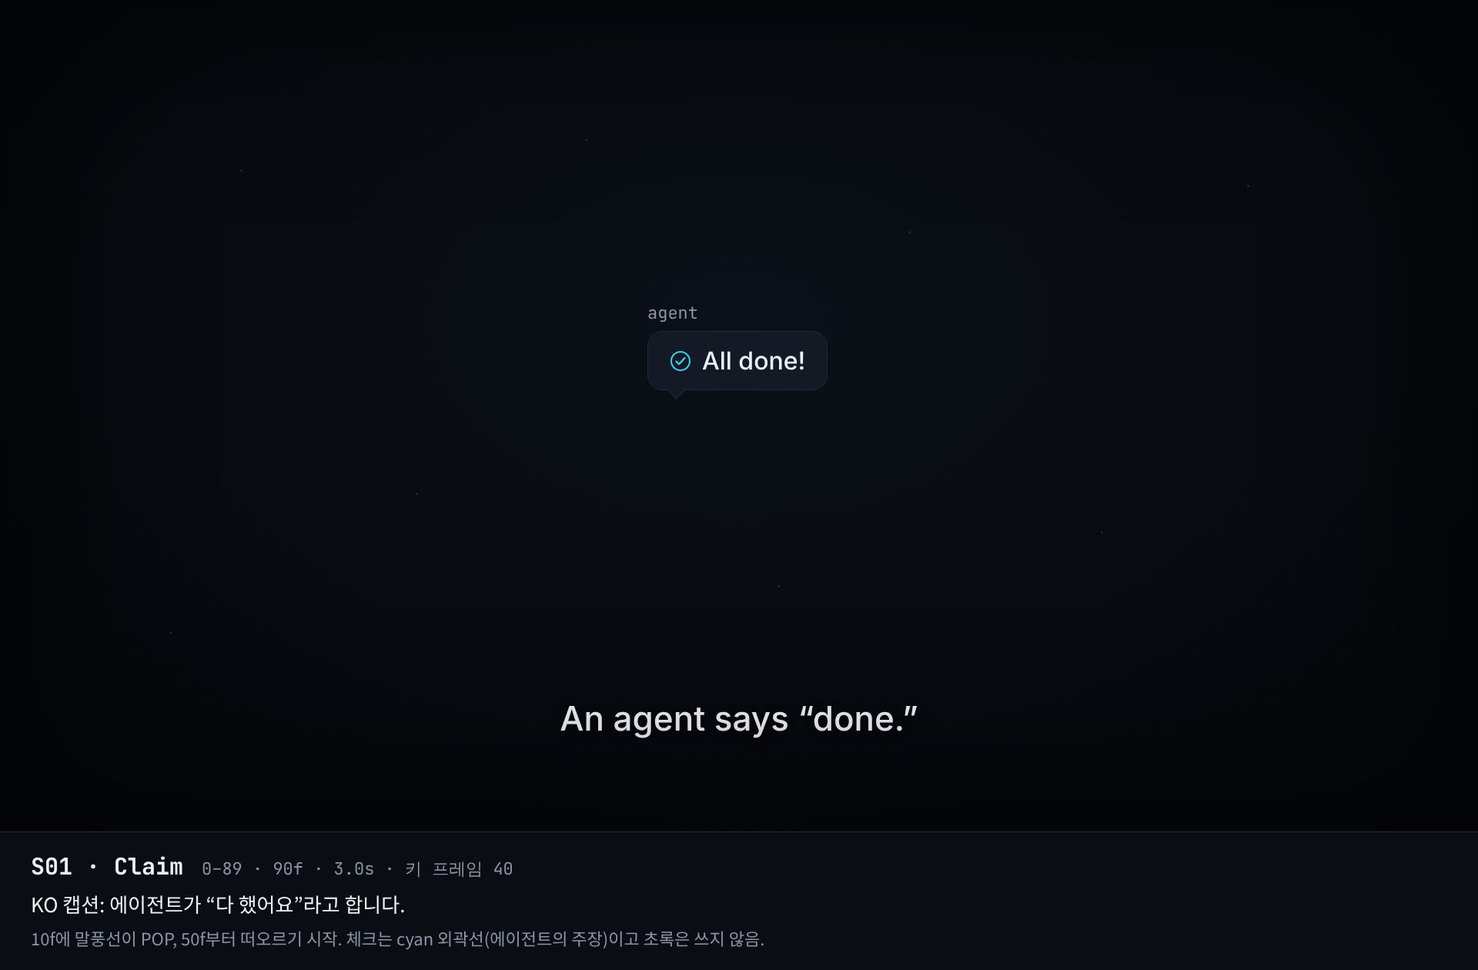
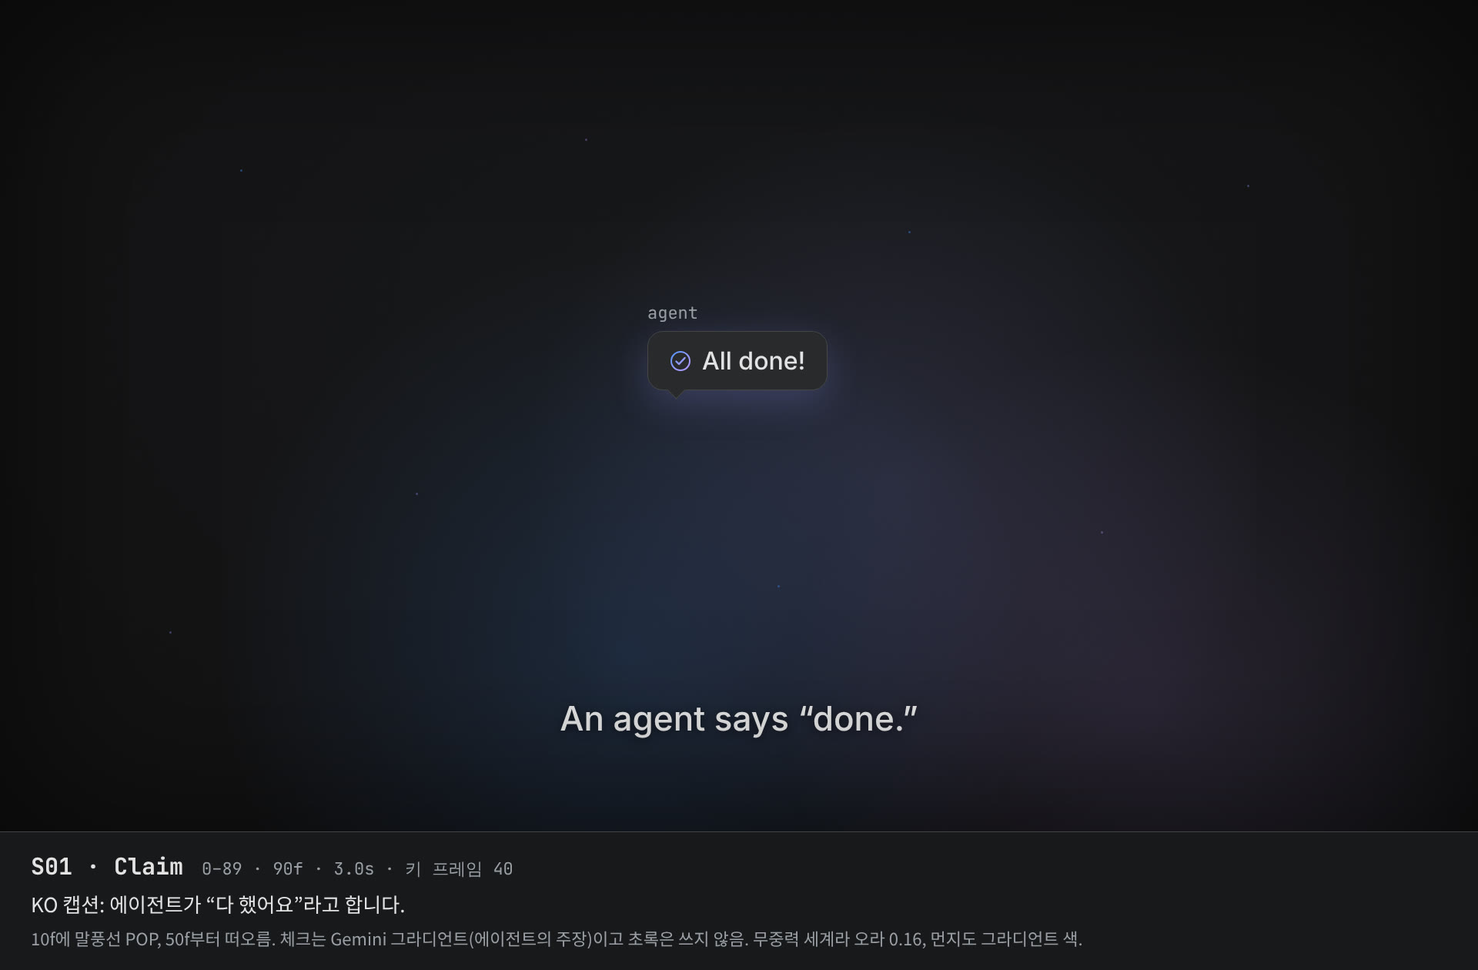
docs(promo): switch motion graphic palette to the Gemini color family
Owner decision: dark Gemini-style surfaces, a blue-lavender-lilac
gradient for agent activity and brand moments ("lift"), and Google
state colors (green GO, red NO-GO). STALE moves from magenta to yellow
so it stays distinct from the gradient's purples.

- DESIGN.md: new tokens with contrast table, color law (gradient only
  for agents/brand, green only for verified), SHIMMER primitive, aura,
  guardrail now allows the palette but still bans logos and sparkle marks
- plan.json: color-law pixel check uses the new green
- frames/: re-rendered styleframes

The gradient hex values come from a third-party palette, not an
official Google guide; they are isolated in three tokens.

Claude-Session: https://claude.ai/code/session_01JPnpxESaoSL5fmmJfBV7GP

Changed region(s): [[0.25, 0.3095, 0.9062, 0.8357], [0.0938, 0.9595, 0.7188, 0.9905]]

diff --git a/promo/motion-graphic/DESIGN.md b/promo/motion-graphic/DESIGN.md
@@ -17,6 +17,7 @@
 | 핵심 메시지 | 에이전트가 "끝났다"고 해도 완료가 아니다. 독립 검수의 GO만 완료다 |
 | 컨셉 | **주장은 떠다니고, 검증된 작업만 착지한다** (Claims float. Verified work lands.) |
 | 마지막 태그라인 | “Done” is a verdict, not a claim. / “완료”는 주장이 아니라 판정입니다. |
+| 팔레트 | Gemini 계열(오너 결정). 다크 표면 `#131314`, 블루→라벤더→라일락 그라디언트는 에이전트와 브랜드에, 초록은 검증에만 (§5.1) |
 | 렌더 엔진 | Remotion(React, TypeScript). 프레임 단위 결정적 렌더링 |
 | 작업 위치 | 플러그인 체크아웃 바깥의 별도 저장소 `native-gravity-promo/` (§11.2) |
 
@@ -69,8 +70,9 @@ NO-GO와 GO의 차이가 보여야 합니다.
 - `npm install native-gravity`. 1.1.0은 npm에 없습니다. 설치는 저장소에서 합니다.
 - 전역 `ntg-vnext` 명령처럼 보이는 표기. 화면 명령은 `node "$NTG/scripts/ntg-vnext.mjs" …` 형태만 씁니다.
 - 모델 이름(Gemini, Argon, Flash, Claude 등)과 내부 역할 이름. 라우팅은 바뀔 수 있고 사용자 기능이 아닙니다.
-- Google, Antigravity, Gemini의 로고, 아이콘, 브랜드 색 배열. 공식 제휴처럼 보이는 표현.
-  "for Google Antigravity" 같은 호환성 텍스트 표기만 허용합니다.
+- Google, Antigravity, Gemini의 로고와 아이콘, Gemini 스파클(네 갈래 별) 모양, Google 로고처럼 네 색을
+  한자리에 나란히 놓은 배열, 공식 제휴처럼 보이는 표현. 팔레트는 오너 결정으로 Gemini 계열 색을 쓰지만(§5.1)
+  색만 빌리고 마크나 모양은 빌리지 않습니다. 텍스트는 "for Google Antigravity" 같은 호환성 표기만 허용합니다.
 - 실제 녹화 실행처럼 보이게 하는 것. 예시 플랜은 `docs/usage.md`를 바탕으로 한 설명용입니다.
   S04부터 S10까지 화면 오른쪽 위에 `Illustrative example` / `예시 시나리오` 라벨을 둡니다.
 - 이모지 글리프. 헤드리스 Chromium에서 두부(□)로 깨질 수 있습니다. 아이콘은 모두 SVG로 그립니다.
@@ -93,6 +95,10 @@ NO-GO와 GO의 차이가 보여야 합니다.
 이야기는 무중력 세계에서 시작합니다. 에이전트의 "done" 말풍선이 떠올라 흘러갑니다. 타이틀에서 세계에
 중력이 생기고, 그 뒤로는 검증을 통과한 것만 바닥에 내려앉습니다. Antigravity를 깎아내리지 않습니다.
 S03 태그라인 "Agents get lift. Verified work gets gravity."처럼 둘을 보완 관계로 그립니다.
+
+색도 같은 이야기를 합니다. Gemini 그라디언트는 **날개(lift)**, 즉 에이전트의 실행과 주장, 그리고 브랜드
+순간에만 씁니다. 초록은 **중력**, 즉 독립 검수를 통과해 착지한 것에만 씁니다. 화면에서 반짝이는 것과
+단단히 놓인 것이 색으로 갈립니다.
 
 ### 3.1 모션 불변식
 
@@ -120,39 +126,57 @@ S03 태그라인 "Agents get lift. Verified work gets gravity."처럼 둘을 보
 
 ## 5. 비주얼 시스템
 
-### 5.1 색 토큰
+### 5.1 색 토큰 (Gemini 계열)
 
-`src/tokens.ts`에 아래 이름 그대로 둡니다. 상태 색은 실제 DAG 뷰어(`scripts/dag-view.mjs`)의 상태
-의미를 따릅니다. ACTIVE는 cyan, DONE은 green, NO-GO는 red, BLOCKED는 yellow, STALE은 magenta입니다.
+오너 결정(2026-10-19)으로 팔레트를 Gemini 계열로 바꿨습니다. `src/tokens.ts`에 아래 이름 그대로 둡니다.
 
-| 토큰 | HEX | 쓰임 | bg0 대비 |
-|---|---|---|---|
-| `bg0` | `#06080C` | 우주 배경 | |
-| `bg1` | `#0D1119` | 패널, 블록 바탕 | |
-| `bg2` | `#141A25` | 말풍선, 리뷰 카드 | |
-| `line` | `#232B3A` | 패널 테두리 | |
-| `ground` | `#2B3547` | ledger 레일 기본선 | |
-| `textHi` | `#EDF1F7` | 본문, 캡션 | 17.68 |
-| `textLo` | `#8C95A6` | 보조 텍스트, 먼지 | 6.65 |
-| `active` | `#38D3F2` | 실행 중, 에이전트 활동과 주장 | 11.23 |
-| `done` | `#39D98A` | GO, DONE, 착지한 레일 | 10.94 |
-| `nogo` | `#FF5C5C` | NO-GO | 6.62 |
-| `stale` | `#C77DFF` | STALE | 7.45 |
-| `blocked` | `#FFC542` | 예약. 이 영상에서는 쓰지 않음 | 12.71 |
-| `pending` | `#4B5568` | PENDING 블록 **테두리 전용** | 2.67 |
-| `reviewer` | `#F4F7FB` | 독립 리뷰 빔, 카드 머리글 | 18.65 |
+- **표면:** Gemini 다크 UI 계열의 중성 회색입니다.
+- **Gemini 그라디언트:** 블루 → 라벤더 → 라일락 세 색입니다. UNKNOWN: 이 값은 서드파티 팔레트 사이트
+  (brandpalettes.com)의 "Gemini Gradient" 값이고, Google 공식 가이드에서 확인한 값이 아닙니다.
+  공식 값을 확인하면 `gBlue`, `gLavender`, `gLilac` 세 토큰만 바꾸면 됩니다.
+- **상태색:** Google 기본색에서 가져옵니다. 실행 중은 그라디언트 블루, DONE은 Google green,
+  NO-GO는 Google red입니다. STALE은 DAG 뷰어의 magenta 대신 Google yellow를 씁니다. 보라 계열은
+  그라디언트의 라벤더, 라일락과 섞여 구별되지 않기 때문입니다. 이 영상에는 BLOCKED(DAG 뷰어에서 yellow)가
+  나오지 않으므로 겹치지 않습니다.
 
-모든 텍스트 색은 bg0, bg1 위에서 4.5:1 이상입니다. `pending`은 대비가 낮아 텍스트에 쓰지 않습니다.
-PENDING 태그 글자는 `textLo`로 씁니다.
+| 토큰 | HEX | 쓰임 | bg0 대비 | bg1 대비 |
+|---|---|---|---|---|
+| `bg0` | `#131314` | 배경 | | |
+| `bg1` | `#1E1F20` | 패널, 블록 바탕 | | |
+| `bg2` | `#282A2C` | 말풍선, 리뷰 카드 | | |
+| `line` | `#444746` | 패널 테두리 | | |
+| `ground` | `#3C4043` | ledger 레일 기본선 | | |
+| `textHi` | `#E3E3E3` | 본문, 캡션 | 14.47 | 12.86 |
+| `textLo` | `#9AA0A6` | 보조 텍스트, 먼지 | 7.03 | 6.25 |
+| `gBlue` | `#4893FC` | 그라디언트 시작. ACTIVE 태그 글자 | 6.06 | 5.39 |
+| `gLavender` | `#969DFF` | 그라디언트 가운데 | 7.57 | 6.73 |
+| `gLilac` | `#BD99FE` | 그라디언트 끝 | 8.09 | 7.19 |
+| `done` | `#34A853` | GO, DONE, 착지한 레일 | 6.08 | 5.40 |
+| `nogo` | `#EA4335` | NO-GO. 굵은 22px 이상 글자에만 | 4.73 | 4.21 |
+| `stale` | `#FBBC04` | STALE | 10.87 | 9.67 |
+| `blocked` | `#FA903E` | 예약. 이 영상에서는 쓰지 않음 | 8.07 | 7.17 |
+| `pending` | `#5F6368` | PENDING 블록 **테두리 전용** | 3.07 | 2.73 |
+| `reviewer` | `#F1F3F4` | 독립 리뷰 빔, 카드 머리글 | 16.68 | 14.83 |
+
+그라디언트 `gemini`는 두 가지 형태로 씁니다.
+
+- 선형: `linear-gradient(90deg, gBlue 0%, gLavender 55%, gLilac 100%)`
+- 테두리용 원뿔형: `conic-gradient(from θ, gBlue, gLavender, gLilac, gLavender, gBlue)`
+
+본문 텍스트는 bg0, bg1 위에서 4.5:1 이상입니다. `nogo`는 bg1에서 4.21이라 굵은 22px 이상 글자에만
+씁니다(WCAG 큰 글자 기준 3:1). 상태색 글자는 모두 태그, 알약, 캡션 강조처럼 굵은 큰 글자입니다.
+`pending`은 테두리 전용이고 PENDING 태그 글자는 `textLo`로 씁니다.
 
 ### 5.2 색의 법칙 (어기면 안 됨)
 
 1. **초록은 검증만 뜻합니다.** `done`은 독립 리뷰 카드 안의 통과 체크, GO 판정, 착지한 블록과 레일에만
    씁니다. 에이전트의 "done" 주장, 진행률, 장식에는 절대 쓰지 않습니다.
-2. 에이전트의 주장과 실행은 `active` cyan입니다. 말풍선 체크 아이콘도 cyan 외곽선입니다.
-3. 빨강은 NO-GO 전용, 마젠타는 STALE 전용입니다.
-4. 독립 리뷰는 `reviewer` 흰색입니다. 에이전트와 색을 공유하지 않는 것이 "독립"의 시각 표현입니다.
-5. 네 상태색을 로고처럼 나란히 배열하지 않습니다(§2.2).
+2. **Gemini 그라디언트는 날개(lift)입니다.** 에이전트의 실행과 주장(ACTIVE 테두리, 주장 칩, 말풍선 체크,
+   작업 입자)과 브랜드 순간(S03 타이틀 레일, 배경 오라, c03c의 `lift`)에만 씁니다. 착지한 블록,
+   ledger 레일 구간, 리뷰 카드, 판정 알약에는 절대 쓰지 않습니다.
+3. 빨강은 NO-GO 전용, 노랑은 STALE 전용입니다.
+4. 독립 리뷰는 `reviewer` 흰색입니다. 에이전트의 Gemini 색을 쓰지 않는 것이 "독립"의 시각 표현입니다.
+5. Google 네 색을 로고처럼 한자리에 나란히 놓지 않고, Gemini 스파클 모양을 쓰지 않습니다(§2.2).
 
 ### 5.3 타이포그래피
 
@@ -171,7 +195,8 @@ PENDING 태그 글자는 `textLo`로 씁니다.
 - 캡션은 가운데 정렬, 최대 폭 1400px, 최대 두 줄입니다. 바탕 상자 없이
   `text-shadow: 0 2px 12px rgba(0,0,0,.6)`만 씁니다.
 - 캡션 강조 토큰은 정확히 일치할 때만 적용합니다. `GO`는 모노 + `done`, `NO-GO`는 모노 + `nogo`,
-  `ledger`는 모노 + `textHi`입니다. 그 밖의 강조는 없습니다.
+  `ledger`는 모노 + `textHi`, c03c의 `lift`와 `날개`는 Gemini 선형 그라디언트 글자입니다.
+  그 밖의 강조는 없습니다.
 - KO 버전도 터미널, plan.json, 블록 제목, 검수 기준, ref는 영어 그대로 둡니다. 실제 파일 내용이기 때문입니다.
   말풍선, 캡션, 리뷰 카드 머리글, 예시 라벨만 현지화합니다(§8).
 
@@ -205,14 +230,15 @@ PENDING 태그 글자는 `textLo`로 씁니다.
 |---|---|---|---|
 | PENDING | `pending` | `textLo` | 없음 |
 | READY | `textHi` 60% | `textHi` | 없음 |
-| ACTIVE | `active` | `active` | 바깥 글로우 0 0 24px, 불투명도 0.45↔0.8, 주기 30f |
+| ACTIVE | Gemini 원뿔형 그라디언트, SHIMMER로 회전 | `gBlue` | 바깥 글로우 0 0 28px(`gBlue` 35%, `gLavender` 25%), 불투명도 0.45↔0.8, 주기 30f |
 | NO-GO | `nogo` | `nogo` | 없음 |
 | DONE | `done` | `done` | 레일 구간 초록 발광 |
 | STALE | `stale` 점선(10/6) | `stale` | `was GO@v1` 노트 |
 
 **후보 태그(candidate tab).** 블록 아래 10px에 두 줄로 매달린 260×44 꼬리표입니다.
 `ref-sha256-3f9a1c…` 같은 ref를 모노 22px로 씁니다. 태그 아래 10px에는 에이전트 주장 칩이 매달립니다.
-주장 칩은 cyan 체크 외곽선 아이콘에 `agent: done`(모노 22px)입니다. 착지가 시작되면 태그와 칩은 블록 본문의
+주장 칩은 1px Gemini 그라디언트 테두리, Gemini 그라디언트 선으로 그린 체크 외곽선 아이콘,
+`agent: done`(모노 22px, `textHi`)입니다. 착지가 시작되면 태그와 칩은 블록 본문의
 한 줄(`ref-sha256-9b2e47…`)로 접혀 들어가 기록으로 남습니다. NO-GO 판정이 나면 블록이 움직이기 전에 먼저
 찢어져 먼지가 되어 위로 흩어집니다. 매달린 태그가 블록보다 먼저 레일에 닿는 일은 없어야 합니다.
 
@@ -225,6 +251,8 @@ PENDING 태그 글자는 `textLo`로 씁니다.
 
 **ledger 레일.** 2px `ground` 선과 은은한 글로우(0 0 12px, `textLo` 25%)입니다. 착지한 블록 아래로
 폭 360px 구간이 `done`으로 빛납니다(2px, 글로우 16px 50%). S08부터 왼쪽 끝 아래에 `ledger` 라벨이 붙습니다.
+S03의 타이틀 레일은 Gemini 선형 그라디언트로 그려지고, S04에서 y=800으로 내려가는 24f 동안 `ground`로
+바뀌며 ledger 레일이 됩니다.
 
 **리뷰 카드와 빔.** 카드는 `bg2` 바탕, 테두리 `reviewer` 35%, 모서리 16px입니다. 머리글은 렌즈 아이콘과
 `Independent review`(Inter SemiBold 26px, `reviewer`)입니다. 행은 체크박스 28px와 기준 문장(Inter 24px)이고,
@@ -237,20 +265,26 @@ PENDING 태그 글자는 `textLo`로 씁니다.
 NO-GO는 같은 방식으로 `nogo`입니다. 빠른 재검증용 미니 알약은 88×36, 모노 22px이며 블록 위 12px에 뜹니다.
 
 **말풍선(S01–S02).** `bg2` 바탕, `line` 테두리, 모서리 20px, 안쪽 여백 20/28px, 왼쪽 아래 꼬리입니다.
-cyan 체크 외곽선 아이콘(28px)과 문구(Inter Medium 32px)를 넣고, 위에 `agent` 라벨(모노 22px, `textLo`)을 둡니다.
+Gemini 그라디언트 선의 체크 외곽선 아이콘(28px)과 문구(Inter Medium 32px)를 넣고, 위에 `agent`
+라벨(모노 22px, `textLo`)을 둡니다. 말풍선 아래로 Gemini 그라디언트의 옅은 글로우(0 16px 48px, 불투명도 0.22)가 깔립니다.
 
 **워드마크.** 왼쪽에 72×72 둥근 사각형(모서리 14px, 4px `done` 테두리)이 120px 받침선 위에 놓인 마크,
 오른쪽에 `Native Gravity`(Space Grotesk Bold 120px)입니다. 마크와 글자 사이는 28px이고, 마크 왼쪽 끝부터
 글자 오른쪽 끝까지를 한 그룹으로 보고 가로 가운데에 둡니다(1080p에서 그룹 폭은 약 880px로 측정됨).
-마크는 "착지한 블록"이므로 초록을 쓸 수 있습니다.
+마크는 "착지한 블록"이므로 초록을 쓸 수 있습니다. 글자는 `textHi` 단색입니다. Gemini의 그라디언트 인사말
+글자와 헷갈리지 않도록 워드마크에는 그라디언트를 넣지 않습니다.
 
 **커맨드 바.** `bg1` 바탕, `line` 테두리, 모서리 12px, 모노 24px입니다. 프롬프트 `$`는 `textLo`,
 커서는 12×26 `textHi` 블록입니다.
 
-**배경.** `bg0`에 중심 (960, 420)에서 `#0B1018`로 밝아지는 방사형 그라디언트, 32px 간격 1.5px 점 격자
-(`textLo` 5%), 가장자리 비네트입니다. 먼지 입자 48개(1.5–3px, 불투명도 0.08–0.22, `textLo`)는
-S03 10f 전까지 위로(−0.3~−0.9 px/f), 그 뒤로 아래로(+0.2~+0.6 px/f) 움직입니다. 방향 전환은 20f 동안
-부드럽게 하며, 화면 밖으로 나가면 반대편에서 다시 나옵니다. 세계에 중력이 생겼다는 것을 배경이 먼저 알립니다.
+**배경.** `bg0`에 중심 (960, 420)에서 `#18191B`로 살짝 밝아지는 방사형 그라디언트, 32px 간격 1.5px 점
+격자(`textLo` 4%), 가장자리 비네트입니다. 그 위에 **Gemini 오라**를 깝니다. `gBlue`, `gLavender`, `gLilac`
+원형 빛 세 개(지름 900–1200px, 블러 160px)이고, 세기는 장면마다 다릅니다. S01–S03은 0.16(무중력, 에이전트의
+세계), S04–S09는 0.05(중력의 세계는 차분하게), S10 엔드 카드 뒤는 0.14입니다. 세기는 장면 경계에서 20f 동안
+바뀝니다. 먼지 입자 48개(1.5–3px)는 S03 10f 전까지 위로(−0.3~−0.9 px/f), 그 뒤로 아래로(+0.2~+0.6 px/f)
+움직입니다. 위로 뜰 때는 그라디언트 세 색(불투명도 0.10–0.25)이고, 방향이 바뀌는 20f 동안 `textLo`
+(불투명도 0.08–0.22)로 바뀝니다. 화면 밖으로 나가면 반대편에서 다시 나옵니다. 세계에 중력이 생겼다는 것을
+배경이 먼저 알립니다.
 
 **레이어 순서(아래→위).** 배경 → 먼지 → 레일 → 그림자 → 블록과 태그 → 빔 → 카드, HUD, 커맨드 바 →
 캡션 → 엔드 카드.
@@ -270,6 +304,7 @@ S03 10f 전까지 위로(−0.3~−0.9 px/f), 그 뒤로 아래로(+0.2~+0.6 px/
 | **SCAN** | 30f (미니 10f) | 빔 x가 블록 왼쪽 −10에서 오른쪽 +10까지 `easeInOutSine`. n개 기준 중 i번째 행은 t = 30·(i+1)/(n+1)에 체크됨. 체크는 스케일 0.6→1 스프링 8f |
 | **STAMP** | 10f | 판정 알약이 스케일 1.3→1, 불투명도 0→1, `spring({damping: 12})` |
 | **STALE LIFT** | 14f | y −16px `easeOutCubic`, 테두리는 점선 `stale`, 태그는 STALE, 노트가 나타남. 레일 초록이 10f 동안 빠짐. 블록 사이 3f 엇갈림(의존성 순서) |
+| **SHIMMER** | 반복 | ACTIVE 테두리 원뿔형 그라디언트의 시작 각 θ = 360°·t/60(2초에 한 바퀴). 주장 칩과 말풍선 체크는 돌리지 않음 |
 | **POP** | 12f | 스케일 0.85→1 `spring({damping: 14, stiffness: 200})`, 불투명도 0→1 6f |
 | **TYPE-ON** | 가변 | 프레임당 3글자. 커서는 30f 주기(15f 켜짐, 15f 꺼짐) |
 | **LINE REVEAL** | 줄당 3f | 줄마다 6px 올라오며 불투명도 0→1, 4f |
@@ -307,7 +342,7 @@ S03 10f 전까지 위로(−0.3~−0.9 px/f), 그 뒤로 아래로(+0.2~+0.6 px/
 ### S01 Claim (90f)
 
 - 0–12: 검은 화면에서 배경이 들어오고 먼지가 천천히 떠오릅니다.
-- 10–22: 말풍선 A `All done!`이 (960, 470)에 POP. cyan 체크 외곽선, 위에 `agent` 라벨.
+- 10–22: 말풍선 A `All done!`이 (960, 470)에 POP. Gemini 그라디언트 체크 외곽선, 위에 `agent` 라벨.
 - 50–89: A가 FLOAT하면서 떠오르기 시작합니다. 상승 속도가 0에서 1.2px/f로 늘고 3°까지 기웁니다.
 - 캡션 c01 [24–89].
 
@@ -324,7 +359,7 @@ S03 10f 전까지 위로(−0.3~−0.9 px/f), 그 뒤로 아래로(+0.2~+0.6 px/
 
 - 0–24: 말풍선들이 12f 안에 멈춘 뒤 아래로 끌려가고(`easeInQuad`), y=640에 닿기 전에 30f까지 먼지로 흩어집니다.
   **주장은 끝내 착지하지 못합니다.**
-- 8–36: y=640 레일이 가운데에서 양옆으로 그려집니다(폭 0→1600, `easeOutCubic`).
+- 8–36: y=640 레일이 Gemini 선형 그라디언트로 가운데에서 양옆으로 그려집니다(폭 0→1600, `easeOutCubic`).
 - 10–30: 먼지 방향이 위에서 아래로 바뀝니다.
 - 30–60: 워드마크가 y −160에서 떨어져 레일 위에 LAND합니다(충돌 48f).
 - 52: 부제 c03b가 y=700(Inter 32px, `textLo`)에. 60: 태그라인 c03c가 y=790(캡션 스타일)에.
@@ -333,7 +368,7 @@ S03 10f 전까지 위로(−0.3~−0.9 px/f), 그 뒤로 아래로(+0.2~+0.6 px/
 ### S04 Plan (150f)
 
 - 0–20: 워드마크, 부제, 태그라인이 20px 올라가며 사라지고, 레일이 y=640에서 800으로 24f 동안 내려갑니다
-  (`easeInOutCubic`).
+  (`easeInOutCubic`). 그동안 레일 색이 그라디언트에서 `ground`로, 오라가 0.16에서 0.05로 바뀝니다.
 - 12–24: plan 패널(x 560–1360, y 100–460, 커맨드 바 스타일)이 POP.
 - 20–56: §10.1의 plan.json 11줄이 LINE REVEAL.
 - 20: 오른쪽 위 예시 라벨이 페이드 인합니다. S10 카메라 틸트 전까지 남습니다.
@@ -346,7 +381,7 @@ S03 10f 전까지 위로(−0.3~−0.9 px/f), 그 뒤로 아래로(+0.2~+0.6 px/
 - 0–24: plan 패널이 크기 0.18로 줄며 왼쪽 위로 날아가 HUD 칩 `plan v1`이 됩니다. 이 칩은 끝까지 남습니다.
 - 16–42: 커맨드 바가 위에서 내려오고 §10.2의 run 명령을 TYPE-ON합니다.
 - 40: m1이 ACTIVE가 됩니다.
-- 44–100: cyan 입자가 m1로 모이고 블록 본문이 은은하게 일렁입니다.
+- 44–100: Gemini 그라디언트 세 색의 입자가 m1로 모이고, 테두리가 SHIMMER로 돌며 본문이 은은하게 일렁입니다.
 - 100–112: 후보 태그 `ref-sha256-3f9a1c…`가 스프링으로 흔들리며 내려옵니다. 108f에 `agent: done` 주장 칩이 POP.
 - 112–149: 그대로 떠 있습니다. 착지하지 않았다는 것이 이 장면의 요점입니다.
 - 캡션 c05 [48–149].
@@ -368,7 +403,7 @@ S03 10f 전까지 위로(−0.3~−0.9 px/f), 그 뒤로 아래로(+0.2~+0.6 px/
 ### S07 Repair · GO · Land (150f)
 
 - 0–12: 카드의 체크와 판정이 8f 동안 사라지며 초기화됩니다.
-- 6–30: m1이 다시 ACTIVE가 되고 cyan 수리 입자가 모입니다.
+- 6–30: m1이 다시 ACTIVE가 되고 그라디언트 수리 입자가 모입니다.
 - 26–36: 새 후보 태그 `ref-sha256-9b2e47…`와 `agent: done` 칩이 붙습니다.
 - 30–38: 연결선이 다시 그려집니다.
 - 38–67: SCAN. 48f와 58f에 ✓ 두 개.
@@ -407,7 +442,7 @@ S03 10f 전까지 위로(−0.3~−0.9 px/f), 그 뒤로 아래로(+0.2~+0.6 px/
 - 0–47: m3 빠른 진행. ACTIVE 0, 후보 태그 `ref-sha256-e7a5b2…` 6, 미니 SCAN 12–21, 미니 GO 22, 빠른 LAND 28–47.
   레일 세 구간이 모두 초록입니다.
 - 48–72: 카메라 틸트. 무대가 아래로 260px 이동하며 불투명도 25%로 어두워지고, 초록 레일은 지평선처럼 남습니다.
-  예시 라벨과 HUD도 함께 어두워집니다.
+  예시 라벨과 HUD도 함께 어두워지고, Gemini 오라가 0.05에서 0.14로 밝아집니다.
 - 56–86: 워드마크가 y=520 받침선에 LAND(충돌 74f).
 - 76: 태그라인 c10a가 y=640에(Space Grotesk 64px). 84: URL c10b가 y=740에(모노 32px, `textHi`).
   92: 배지 c10c가 y=800에(Inter 24px, `textLo`).
@@ -635,7 +670,8 @@ type StoryEvent =
 5. **카피:** 쓰이는 모든 키에 EN, KO 문자열이 있고, 모든 캡션 창이 §8.3 규칙을 통과합니다.
 6. **모션 프리미티브:** LAND 충돌 프레임에서 블록 아래변이 레일 y와 같고 scaleY가 0.90입니다. FLOAT 진폭은
    8px을 넘지 않습니다. REPEL은 레일 위 48px보다 아래로 내려가지 않습니다. SCAN 체크 프레임이 §6 식과 같습니다.
-7. **색의 법칙:** 상태가 DONE이 아니거나 GO 직후가 아닌 블록, 주장 칩, 말풍선에 `done` 색이 쓰이지 않습니다
+7. **색의 법칙:** 상태가 DONE이 아니거나 GO 직후가 아닌 블록, 주장 칩, 말풍선에 `done` 색이 쓰이지 않습니다.
+   DONE 블록, ledger 레일 구간, 리뷰 카드, 판정 알약에는 `gBlue`, `gLavender`, `gLilac`이 쓰이지 않습니다
    (컴포넌트 단위 테스트 또는 렌더 함수의 색 선택 테스트).
 
 ### 11.6 렌더 명령
@@ -689,7 +725,7 @@ NTG의 홍보 영상을 NTG의 독립 검수로 만드는 셈입니다. `run`은
    숏은 30, 120, 230, 330, 449. 한 장짜리 컨택트 시트(`out/qa/contact-en.png`, `-ko.png`)도 만듭니다.
 3. **카피:** 화면 문자열이 §8과 글자 단위로 같습니다. KO 스틸에 두부(□)가 없습니다.
 4. **가드레일:** §2.2 금지 항목이 하나도 없습니다(항목별 체크리스트).
-5. **색의 법칙:** 프레임 60, 210, 690 스틸에서 `#39D98A`(±6) 픽셀이 0개입니다. GO 이전 장면이기 때문입니다.
+5. **색의 법칙:** 프레임 60, 210, 690 스틸에서 `#34A853`(±6) 픽셀이 0개입니다. GO 이전 장면이기 때문입니다.
 6. **세이프 영역:** 모든 검수 스틸에서 텍스트가 §4 세이프 영역 안에 있습니다.
 7. **결정성:** 프레임 1000을 두 번 렌더한 PNG의 SHA-256이 같습니다.
 8. **루프:** README 루프의 0프레임과 119프레임 이후 이어짐이 육안으로 끊기지 않습니다(두 프레임 스틸 첨부). GIF는 6MB 이하입니다.
@@ -706,6 +742,8 @@ NTG의 홍보 영상을 NTG의 독립 검수로 만드는 셈입니다. `run`은
 | 내레이션 | 없음 | 내레이션 길이에 맞춰 장면 표 재설계 |
 | 렌더 엔진 | Remotion(라이선스 확인 조건) | Motion Canvas로 바꿔도 §5–§10은 그대로 |
 | 작업 위치 | 별도 저장소 | 이 저장소 안이면 플러그인 설치 범위부터 확인 |
+| 팔레트 | Gemini 계열(오너 결정, 2026-10-19) | 그라디언트 세 값은 비공식. 공식 값을 확인하면 토큰 세 개만 교체 |
+| 비제휴 문구 | 넣지 않음 | Gemini 계열 색을 쓰므로 엔드 카드에 Google과 무관하다는 문구를 넣을지 오너가 정함. 설계 쪽에서 사실 여부를 확인할 수 없어 기본값은 넣지 않음 |
 
 ## 15. 구현 규칙 (Argon에게)
 
